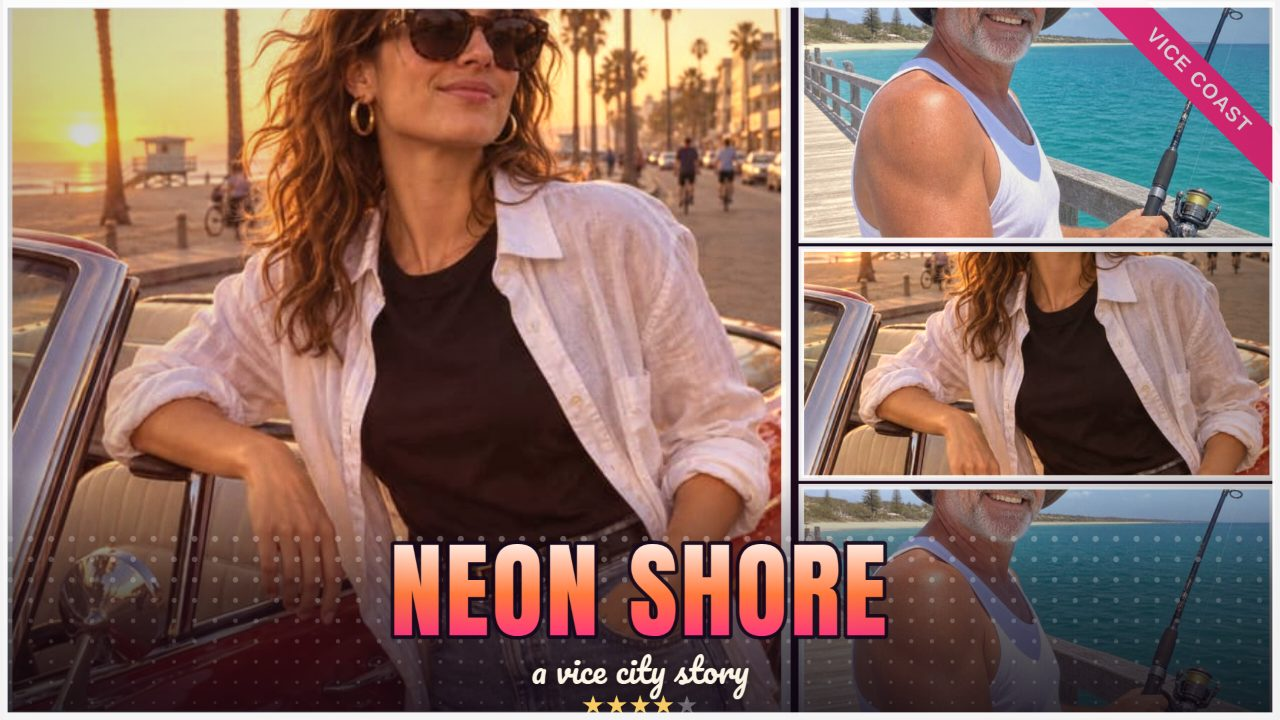
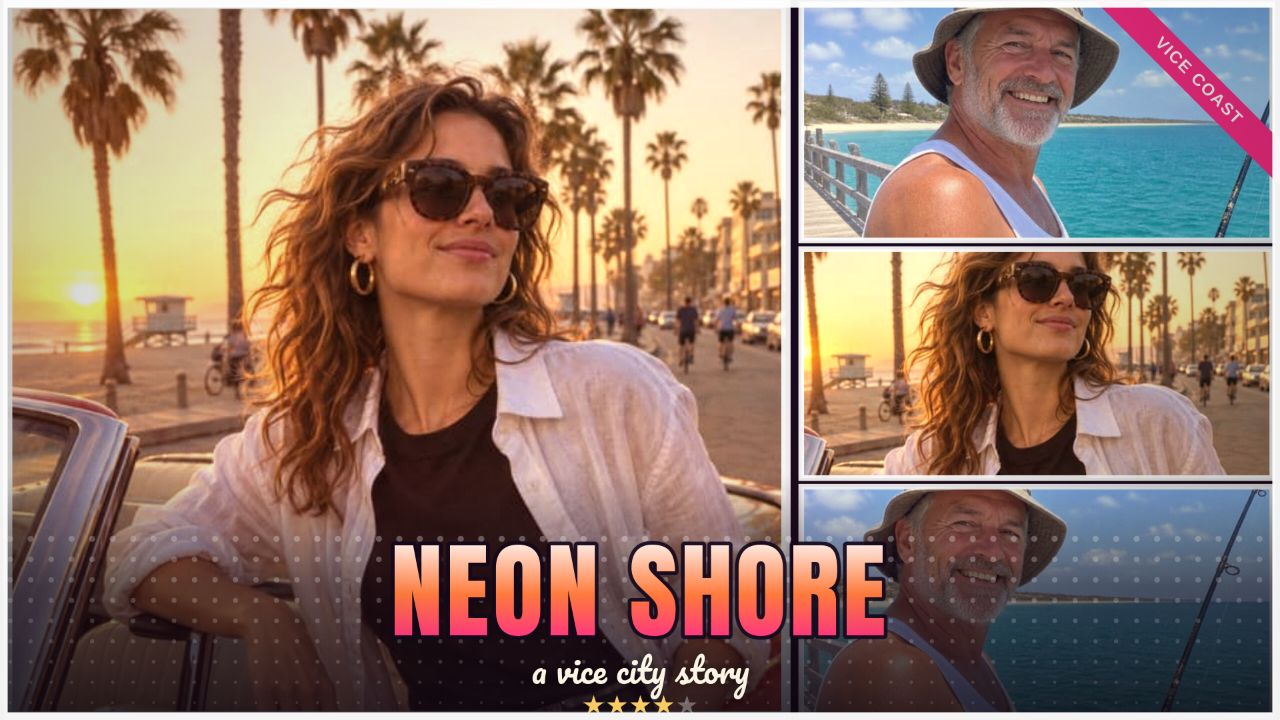
Round 2 — cover fixes: title, scrim, ribbon, pan clamp, 9-file upload

diff --git a/app/src/cover.js b/app/src/cover.js
@@ -29,7 +29,10 @@ export const GRADES = {
 
 export const PANEL_COUNT = 9;
 
-/** Default cover state: one fresh object per call so undo snapshots stay independent. */
+/** Default cover state: one fresh object per call so undo snapshots stay independent.
+ * Panels start with a strong upward bias (oy +0.45): a portrait photo in a
+ * short side panel otherwise shows a headless torso, and the fit clamps the
+ * pan, so a photo with no vertical excess is unaffected. */
 export function defaultState() {
   return {
     layout: 'hero',
@@ -49,7 +52,7 @@ export function defaultState() {
       photo: i % 2,
       zoom: 1,
       ox: 0,
-      oy: 0,
+      oy: 0.45,
     })),
   };
 }
@@ -70,9 +73,9 @@ export function layoutPanels(layout, w, h) {
       return [{ x: 0, y: 0, w: 1, h: 1, rot: 0 }];
     case 'tilted':
       return [
-        { x: 0.03, y: 0.30, w: 0.44, h: 0.46, rot: -0.10 },
-        { x: 0.28, y: 0.05, w: 0.46, h: 0.58, rot: 0.03 },
-        { x: 0.55, y: 0.30, w: 0.44, h: 0.46, rot: 0.09 },
+        { x: 0.03, y: 0.30, w: 0.44, h: 0.46, rot: -0.06 },
+        { x: 0.28, y: 0.05, w: 0.46, h: 0.58, rot: 0.02 },
+        { x: 0.55, y: 0.30, w: 0.44, h: 0.46, rot: 0.06 },
       ];
     case 'triptych':
       return [inset(0, 0, 1 / 3, 1), inset(1 / 3, 0, 1 / 3, 1), inset(2 / 3, 0, 1 / 3, 1)];
@@ -91,13 +94,19 @@ export function titleZone(layout, w, h) {
   return { x: 0, y: h * 0.72, w, h: h * 0.28, align: 'center' };
 }
 
-/** Cover-fit rectangle for an image inside a panel, with the panel's zoom and pan. */
+/** Cover-fit rectangle for an image inside a panel, with the panel's zoom and pan.
+ * Pan is clamped to the photo's excess: dragging (or a default offset) can never
+ * pull the photo out of its panel and leave a gap. */
 export function coverFitRect(img, rect, panel) {
   const scale = Math.max(rect.w / img.naturalWidth, rect.h / img.naturalHeight) * (panel.zoom || 1);
   const pw = img.naturalWidth * scale;
   const ph = img.naturalHeight * scale;
-  const cx = rect.x + rect.w / 2 + (panel.ox || 0) * rect.w;
-  const cy = rect.y + rect.h / 2 + (panel.oy || 0) * rect.h;
+  const maxOx = Math.max(0, (pw - rect.w) / 2 / rect.w);
+  const maxOy = Math.max(0, (ph - rect.h) / 2 / rect.h);
+  const ox = Math.max(-maxOx, Math.min(maxOx, panel.ox || 0));
+  const oy = Math.max(-maxOy, Math.min(maxOy, panel.oy || 0));
+  const cx = rect.x + rect.w / 2 + ox * rect.w;
+  const cy = rect.y + rect.h / 2 + oy * rect.h;
   return { x: cx - pw / 2, y: cy - ph / 2, w: pw, h: ph };
 }
 
@@ -172,13 +181,17 @@ export function fitTitleText(ctx, text, maxWidth, startSize, font) {
   return size;
 }
 
-/** The title block: scrim, halftone, big Anton title with a sunset gradient, script subtitle, stars. */
+/** The title block: scrim, halftone, big Anton title with a sunset gradient, script subtitle, stars.
+ * Grid layouts show 4-9 small photos, so the title shrinks there: at full size it
+ * would swallow the whole bottom row (the 3x3 shot proved it). */
 export function drawTitleBlock(ctx, w, h, state, grade) {
   const zone = titleZone(state.layout, w, h);
+  const titleScale = state.layout === 'grid9' ? 0.60 : state.layout === 'grid4' ? 0.78 : 1;
+  const scrimScale = state.layout === 'grid9' ? 0.62 : state.layout === 'grid4' ? 0.8 : 1;
   const scrim = ctx.createLinearGradient(0, zone.y - h * 0.06, 0, zone.y + zone.h);
   scrim.addColorStop(0, 'rgba(10,6,18,0)');
-  scrim.addColorStop(0.45, 'rgba(10,6,18,0.55)');
-  scrim.addColorStop(1, 'rgba(10,6,18,0.82)');
+  scrim.addColorStop(0.45, `rgba(10,6,18,${(0.55 * scrimScale).toFixed(2)})`);
+  scrim.addColorStop(1, `rgba(10,6,18,${(0.82 * scrimScale).toFixed(2)})`);
   ctx.fillStyle = scrim;
   ctx.fillRect(zone.x, zone.y - h * 0.06, zone.w, zone.h + h * 0.06);
   if (state.halftone) drawHalftoneDots(ctx, zone, w, h, '#ffffff');
@@ -189,7 +202,7 @@ export function drawTitleBlock(ctx, w, h, state, grade) {
   ctx.textBaseline = 'alphabetic';
 
   const title = (state.title || 'UNTITLED').toUpperCase();
-  const titleSize = fitTitleText(ctx, title, zone.w - pad * 2, zone.h * 0.52, (s) => `${s}px Anton, "Arial Black", sans-serif`);
+  const titleSize = fitTitleText(ctx, title, zone.w - pad * 2, zone.h * 0.52 * titleScale, (s) => `${s}px Anton, "Arial Black", sans-serif`);
   const titleGrad = ctx.createLinearGradient(0, zone.y + zone.h * 0.08, 0, zone.y + zone.h * 0.62);
   titleGrad.addColorStop(0, '#ffffff');
   titleGrad.addColorStop(0.55, grade.sky[0]);
@@ -208,7 +221,7 @@ export function drawTitleBlock(ctx, w, h, state, grade) {
 
   const sub = (state.subtitle || '').trim();
   if (sub) {
-    const subSize = Math.max(14, zone.h * 0.17);
+    const subSize = Math.max(14, zone.h * 0.17 * titleScale);
     ctx.font = `${subSize}px Pacifico, cursive`;
     ctx.fillStyle = grade.ink;
     ctx.shadowColor = 'rgba(0,0,0,0.55)';
@@ -218,7 +231,7 @@ export function drawTitleBlock(ctx, w, h, state, grade) {
   }
 
   // Heat meter: filled stars for the rating, dim stars for the rest.
-  const starSize = Math.max(12, zone.h * 0.13);
+  const starSize = Math.max(12, zone.h * 0.13 * titleScale);
   ctx.font = `${starSize}px sans-serif`;
   ctx.textAlign = 'left';
   const stars = '★★★★★';
@@ -231,7 +244,8 @@ export function drawTitleBlock(ctx, w, h, state, grade) {
   ctx.fillText('★'.repeat(Math.max(0, Math.min(5, state.stars || 0))), sx, sy);
 }
 
-/** Diagonal badge ribbon across the top-right corner. */
+/** Diagonal badge ribbon across the top-right corner, kept short so it stays in
+ * the corner triangle instead of crossing the face of the top-right photo. */
 export function drawBadgeRibbon(ctx, w, h, state, grade) {
   if (!state.ribbon) return;
   const text = (state.badge || '').trim().toUpperCase();
@@ -240,8 +254,8 @@ export function drawBadgeRibbon(ctx, w, h, state, grade) {
   ctx.save();
   ctx.translate(w, 0);
   ctx.rotate(Math.PI / 4);
-  const bandH = s * 0.055;
-  const bandW = s * 0.62;
+  const bandH = s * 0.045;
+  const bandW = s * 0.40;
   ctx.fillStyle = grade.sky[1];
   ctx.fillRect(-bandW / 2, -bandH / 2 + s * 0.16, bandW, bandH);
   ctx.fillStyle = '#ffffff';

diff --git a/app/src/main.js b/app/src/main.js
@@ -275,7 +275,7 @@ function bindControls() {
   $('pany').addEventListener('change', () => commitHistory('pan y'));
   $('resetPanel').addEventListener('click', () => {
     commitHistory('reset panel');
-    state.panels[state.selected] = { photo: state.panels[state.selected].photo, zoom: 1, ox: 0, oy: 0 };
+    state.panels[state.selected] = { photo: state.panels[state.selected].photo, zoom: 1, ox: 0, oy: 0.45 };
     syncControls();
     redraw();
   });
@@ -288,12 +288,19 @@ function bindControls() {
   });
   $('export').addEventListener('click', exportCover);
   $('upload').addEventListener('change', async (e) => {
-    const files = [...e.target.files].slice(0, 3);
+    // Up to 9 photos in one batch (one per panel in the 9-grid); each new photo
+    // is dealt to the next panel in order, so a batch fills the whole cover.
+    const files = [...e.target.files].slice(0, 9);
+    const written = [];
     for (const file of files) {
       const img = await loadImage(URL.createObjectURL(file));
       const slot = photos.findIndex((p) => p && p.name.startsWith('Upload'));
       const at = slot === -1 ? photos.length : slot;
       photos[at] = { img, name: file.name.replace(/\.[^.]+$/, '').slice(0, 18) || 'Upload' };
+      written.push(at);
+    }
+    if (written.length) {
+      for (let i = 0; i < PANEL_COUNT; i++) state.panels[i].photo = written[i % written.length];
     }
     commitHistory('upload');
     syncControls();

diff --git a/app/src/shots.js b/app/src/shots.js
@@ -18,6 +18,27 @@ export async function runShot(shot, query, state, photos, helpers) {
   // Every panel uses the two loaded photos, alternating, unless the query names one.
   const only = query.get('only');
   state.panels.forEach((p, i) => { p.photo = only !== null ? Number(only) : i % 2; });
+  // Staged shots: vary the crop per panel so the two sample photos read as
+  // different shots, with an upward bias that keeps faces in frame (the fit
+  // clamps the pan, so no gap can open). Grid layouts can zoom further; the
+  // hero's short side panels stay near 1:1 or heads get cropped.
+  const zoomByPanel = [1.0, 1.18, 1.32, 1.10, 1.26, 1.06, 1.22, 1.14, 1.38];
+  const oxByPanel = [0, 0.06, -0.06, -0.05, 0.07, 0, -0.07, 0.05, 0];
+  const grid = state.layout === 'grid9' || state.layout === 'grid4';
+  state.panels.forEach((p, i) => {
+    if (grid) {
+      const z = zoomByPanel[i];
+      p.zoom = z;
+      p.ox = oxByPanel[i];
+      p.oy = 0.10 + (z - 1) * 0.3;
+    } else {
+      // Short/wide panels slice a portrait photo horizontally: bias hard to
+      // the top (boulevard is portrait, pier is square) or heads get cropped.
+      p.zoom = Math.min(zoomByPanel[i], 1.12);
+      p.ox = oxByPanel[i];
+      p.oy = p.photo === 0 ? 0.62 : 0.38;
+    }
+  });
 
   if (shot === 'cover') document.body.classList.add('shot-cover');
   try { await document.fonts.ready; } catch { /* fonts fall back to system sans */ }

diff --git a/app/index.html b/app/index.html
@@ -25,7 +25,7 @@
       <button id="sampleBoulevard" type="button" class="ghost">Sample: Boulevard</button>
       <button id="samplePier" type="button" class="ghost">Sample: Pier</button>
     </div>
-    <p class="hint">Photos are read on this machine and never uploaded. Drag the preview to move a photo inside its panel; scroll over it to zoom.</p>
+    <p class="hint">Photos are read on this machine and never uploaded. Add up to 9 at once — each one fills the next panel. Drag the preview to move a photo inside its panel; scroll over it to zoom.</p>
 
     <h2>Layout</h2>
     <div id="layouts" class="picker" role="group" aria-label="Cover layout"></div>
